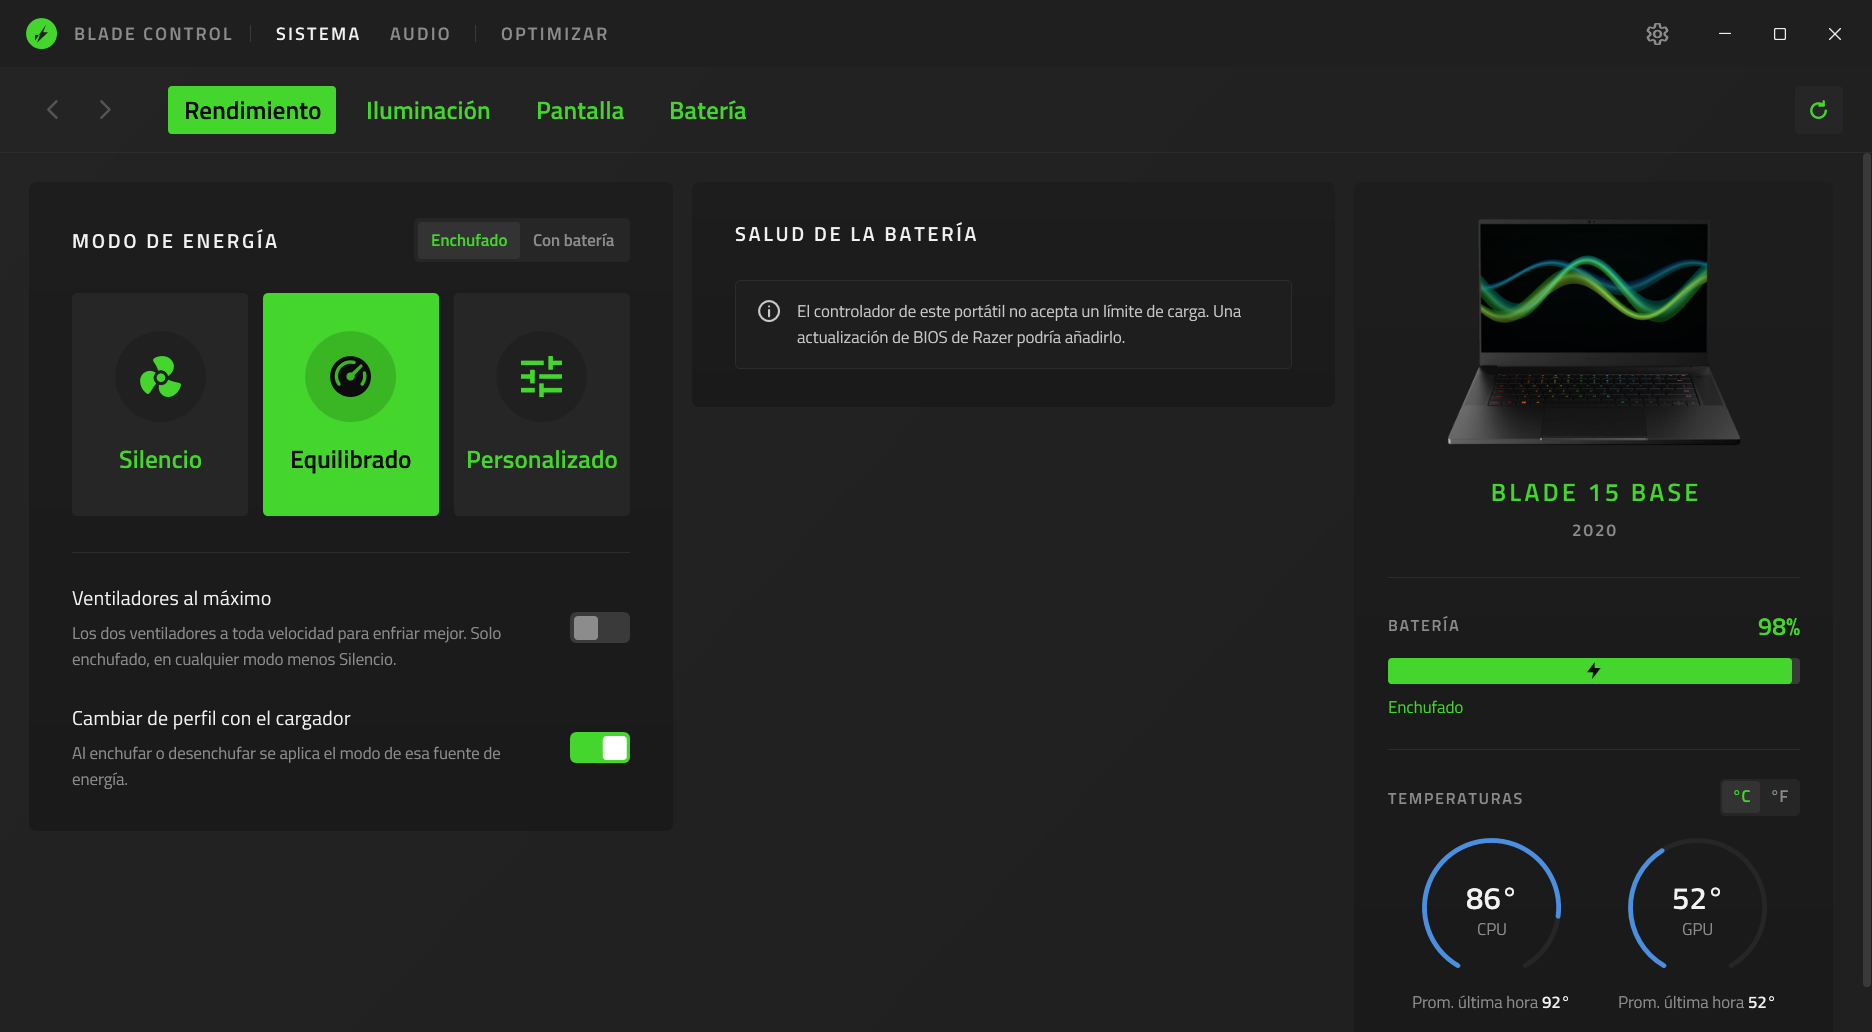
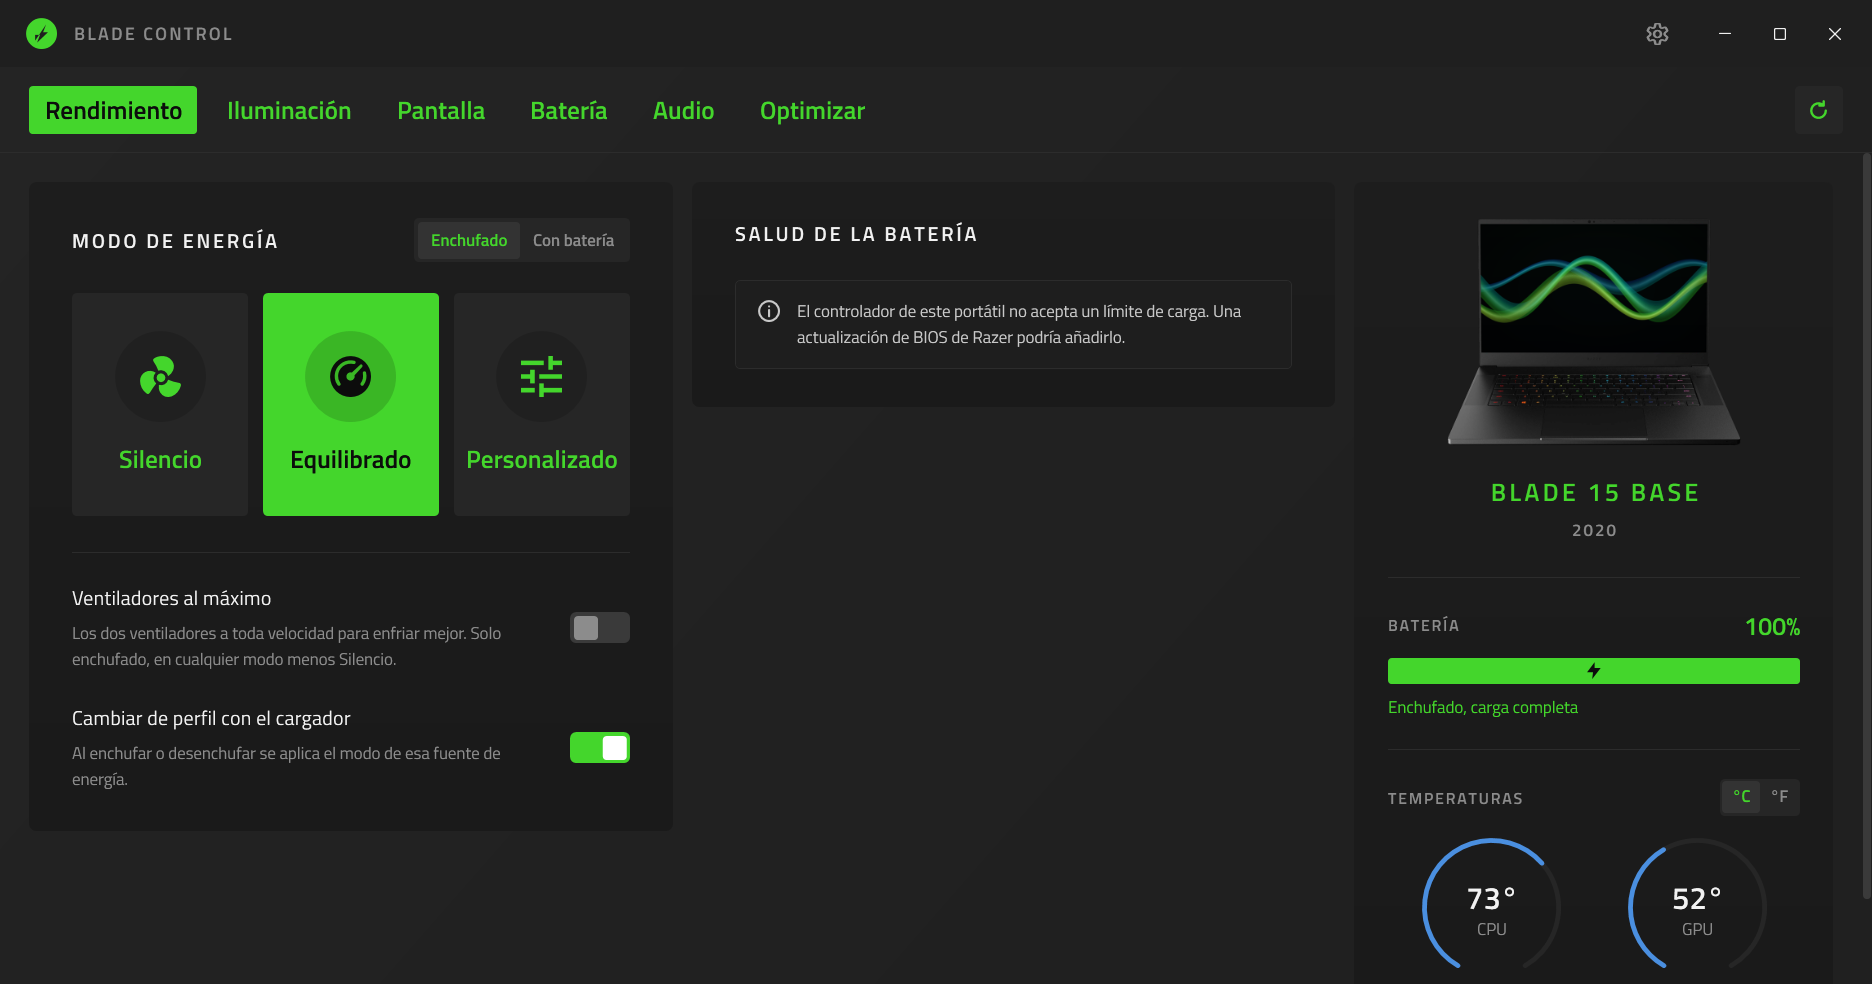
Puts every page in one row of tabs and gives the window Windows' own border
System, Audio and Optimize leave the title bar and join Performance,
Lighting, Display and Battery as tabs; the back and forward arrows go.
A one-pixel glass frame brings back Windows' shadow, thin border and
rounded corners.

diff --git a/src/BladeControl/Views/MainWindow.xaml b/src/BladeControl/Views/MainWindow.xaml
@@ -13,9 +13,12 @@
         TextOptions.TextFormattingMode="Ideal"
         UseLayoutRounding="True">
 
-    <!-- A normal Windows window (taskbar, snap, resize) with the concept's own title bar drawn in it. -->
+    <!--
+        A normal Windows window (taskbar, snap, resize) with the concept's own title bar drawn in it.
+        The one-pixel glass frame keeps Windows' own shadow, thin border and rounded corners.
+    -->
     <WindowChrome.WindowChrome>
-        <WindowChrome CaptionHeight="56" ResizeBorderThickness="6" GlassFrameThickness="0" CornerRadius="0" UseAeroCaptionButtons="False" />
+        <WindowChrome CaptionHeight="56" ResizeBorderThickness="6" GlassFrameThickness="0,0,0,1" CornerRadius="0" UseAeroCaptionButtons="False" />
     </WindowChrome.WindowChrome>
 
     <Grid x:Name="Root">
@@ -25,7 +28,7 @@
             <RowDefinition Height="*" />
         </Grid.RowDefinitions>
 
-        <!-- ===== Title bar: mark, sections, settings and the window buttons ===== -->
+        <!-- ===== Title bar: mark, settings and the window buttons ===== -->
         <Grid Grid.Row="0" Background="{StaticResource Brush.TitleBar}">
             <Grid.ColumnDefinitions>
                 <ColumnDefinition Width="Auto" />
@@ -37,11 +40,6 @@
                 <Path Width="26" Height="26" Data="{StaticResource Icon.Logo}" Fill="{StaticResource Brush.Accent}" Stretch="Uniform" />
                 <TextBlock Text="{ui:T 'Blade Control', Caps=True}" Margin="14,0,8,0" VerticalAlignment="Center"
                            FontSize="15" FontWeight="SemiBold" Foreground="{StaticResource Brush.TextMuted}" />
-                <Border Width="1" Height="14" Background="{StaticResource Brush.Track}" Margin="8,0" />
-                <RadioButton Style="{StaticResource TopNav}" Content="{ui:T 'System', Caps=True}" IsChecked="{Binding IsSystem}" />
-                <RadioButton Style="{StaticResource TopNav}" Content="{ui:T 'Audio', Caps=True}" IsChecked="{Binding IsAudio}" />
-                <Border Width="1" Height="14" Background="{StaticResource Brush.Track}" Margin="8,0" />
-                <RadioButton Style="{StaticResource TopNav}" Content="{ui:T 'Optimize', Caps=True}" IsChecked="{Binding IsOptimize}" />
             </StackPanel>
 
             <StackPanel Grid.Column="2" Orientation="Horizontal" Margin="0,0,8,0" VerticalAlignment="Center">
@@ -55,7 +53,7 @@
             </StackPanel>
         </Grid>
 
-        <!-- ===== Page row: back, forward, the section's pages, and refresh ===== -->
+        <!-- ===== Page row: every page, the last change's message, and refresh ===== -->
         <Grid Grid.Row="1" Margin="24,16,24,16">
             <Grid.ColumnDefinitions>
                 <ColumnDefinition Width="Auto" />
@@ -64,22 +62,12 @@
             </Grid.ColumnDefinitions>
 
             <StackPanel Orientation="Horizontal">
-                <Button Style="{StaticResource IconButton}" Content="{StaticResource Icon.Back}" Command="{Binding BackCommand}" ToolTip="{ui:T 'Back'}" />
-                <Button Style="{StaticResource IconButton}" Content="{StaticResource Icon.Forward}" Command="{Binding ForwardCommand}"
-                        Background="Transparent" Margin="4,0,32,0" ToolTip="{ui:T 'Forward'}" />
-
-                <StackPanel Orientation="Horizontal" Visibility="{Binding HasSubTabs, Converter={StaticResource Visible}}">
-                    <RadioButton Style="{StaticResource SubTab}" Content="{ui:T 'Performance'}" IsChecked="{Binding IsPerformance}" />
-                    <RadioButton Style="{StaticResource SubTab}" Content="{ui:T 'Lighting'}" IsChecked="{Binding IsLighting}" />
-                    <RadioButton Style="{StaticResource SubTab}" Content="{ui:T 'Display'}" IsChecked="{Binding IsDisplay}" />
-                    <RadioButton Style="{StaticResource SubTab}" Content="{ui:T 'Battery'}" IsChecked="{Binding IsBattery}" />
-                </StackPanel>
-
-                <!-- A section with a single page shows its name instead of tabs. -->
-                <Border Background="{StaticResource Brush.Accent}" CornerRadius="3" Padding="13,3,13,5"
-                        Visibility="{Binding HasSubTabs, Converter={StaticResource Hidden}}">
-                    <TextBlock Text="{Binding PageTitle}" FontSize="21" FontWeight="SemiBold" Foreground="{StaticResource Brush.OnAccent}" />
-                </Border>
+                <RadioButton Style="{StaticResource SubTab}" Content="{ui:T 'Performance'}" IsChecked="{Binding IsPerformance}" />
+                <RadioButton Style="{StaticResource SubTab}" Content="{ui:T 'Lighting'}" IsChecked="{Binding IsLighting}" />
+                <RadioButton Style="{StaticResource SubTab}" Content="{ui:T 'Display'}" IsChecked="{Binding IsDisplay}" />
+                <RadioButton Style="{StaticResource SubTab}" Content="{ui:T 'Battery'}" IsChecked="{Binding IsBattery}" />
+                <RadioButton Style="{StaticResource SubTab}" Content="{ui:T 'Audio'}" IsChecked="{Binding IsAudio}" />
+                <RadioButton Style="{StaticResource SubTab}" Content="{ui:T 'Optimize'}" IsChecked="{Binding IsOptimize}" />
             </StackPanel>
 
             <!-- What the last change did, for a few seconds. -->

diff --git a/src/BladeControl/Themes/Icons.xaml b/src/BladeControl/Themes/Icons.xaml
@@ -20,8 +20,6 @@
     <Geometry x:Key="Icon.Logo">F0 M12,0 A12,12 0 1 1 11.99,0 Z M7,17.5 L15.5,5 L13.2,11 L17,11 L8.5,19 L10.8,13 L7,13 Z</Geometry>
 
     <!-- Small line icons, on a 24 grid, drawn with a stroke. -->
-    <Geometry x:Key="Icon.Back">M15,5 L8,12 L15,19</Geometry>
-    <Geometry x:Key="Icon.Forward">M9,5 L16,12 L9,19</Geometry>
     <Geometry x:Key="Icon.Refresh">M19,12 A7,7 0 1 1 16.95,7.05 M17,3 L17,7.2 L12.8,7.2</Geometry>
     <Geometry x:Key="Icon.Bolt">F1 M13,2 L4,14 L11,14 L10,22 L20,9 L13,9 Z</Geometry>
     <Geometry x:Key="Icon.Info">M12,11 L12,17 M12,7.5 L12,7.6 M12,2.5 A9.5,9.5 0 1 1 11.99,2.5 Z</Geometry>

diff --git a/src/BladeControl/ViewModels/MainViewModel.cs b/src/BladeControl/ViewModels/MainViewModel.cs
@@ -6,16 +6,7 @@ using CommunityToolkit.Mvvm.Input;
 
 namespace BladeControl.ViewModels;
 
-/// <summary>The sections along the title bar.</summary>
-internal enum AppSection
-{
-    System,
-    Audio,
-    Optimize,
-    Settings
-}
-
-/// <summary>The pages of a section, in the row of green tabs.</summary>
+/// <summary>The pages, in the row of green tabs; Settings opens from the gear in the title bar.</summary>
 internal enum AppPage
 {
     Performance,
@@ -27,15 +18,10 @@ internal enum AppPage
     Settings
 }
 
-/// <summary>
-/// The window: which section and page are open, the back and forward history
-/// across them, and the short message under the tabs after a change.
-/// </summary>
+/// <summary>The window: which page is open, and the short message beside the tabs after a change.</summary>
 internal sealed partial class MainViewModel : ObservableObject
 {
-    private readonly List<AppPage> _history = [AppPage.Performance];
     private readonly DispatcherTimer _statusTimer = new() { Interval = TimeSpan.FromSeconds(4) };
-    private int _historyIndex;
 
     public MainViewModel(AppServices services)
     {
@@ -57,14 +43,9 @@ internal sealed partial class MainViewModel : ObservableObject
     public DevicePanelViewModel Device { get; }
 
     [ObservableProperty]
-    [NotifyPropertyChangedFor(nameof(Section), nameof(IsSystem), nameof(IsAudio), nameof(IsOptimize), nameof(IsSettings),
-        nameof(IsPerformance), nameof(IsLighting), nameof(IsDisplay), nameof(IsBattery), nameof(HasSubTabs), nameof(PageTitle))]
-    [NotifyCanExecuteChangedFor(nameof(BackCommand), nameof(ForwardCommand))]
+    [NotifyPropertyChangedFor(nameof(IsPerformance), nameof(IsLighting), nameof(IsDisplay), nameof(IsBattery),
+        nameof(IsAudio), nameof(IsOptimize), nameof(IsSettings), nameof(PageTitle))]
     private AppPage _page = AppPage.Performance;
-
-    public AppSection Section => SectionOf(Page);
-
-    public bool HasSubTabs => Section == AppSection.System;
 
     /// <summary>The open page's name, for the pages that are still to come.</summary>
     public string PageTitle => L.T(Page switch
@@ -79,49 +60,25 @@ internal sealed partial class MainViewModel : ObservableObject
     });
 
     // The radio buttons: setting one to true opens it.
-    public bool IsSystem { get => Section == AppSection.System; set { if (value && !IsSystem) Open(AppPage.Performance); } }
+    public bool IsPerformance { get => Page == AppPage.Performance; set { if (value) Page = AppPage.Performance; } }
 
-    public bool IsAudio { get => Section == AppSection.Audio; set { if (value) Open(AppPage.Audio); } }
+    public bool IsLighting { get => Page == AppPage.Lighting; set { if (value) Page = AppPage.Lighting; } }
 
-    public bool IsOptimize { get => Section == AppSection.Optimize; set { if (value) Open(AppPage.Optimize); } }
+    public bool IsDisplay { get => Page == AppPage.Display; set { if (value) Page = AppPage.Display; } }
 
-    public bool IsSettings { get => Section == AppSection.Settings; set { if (value) Open(AppPage.Settings); } }
+    public bool IsBattery { get => Page == AppPage.Battery; set { if (value) Page = AppPage.Battery; } }
 
-    public bool IsPerformance { get => Page == AppPage.Performance; set { if (value) Open(AppPage.Performance); } }
+    public bool IsAudio { get => Page == AppPage.Audio; set { if (value) Page = AppPage.Audio; } }
 
-    public bool IsLighting { get => Page == AppPage.Lighting; set { if (value) Open(AppPage.Lighting); } }
+    public bool IsOptimize { get => Page == AppPage.Optimize; set { if (value) Page = AppPage.Optimize; } }
 
-    public bool IsDisplay { get => Page == AppPage.Display; set { if (value) Open(AppPage.Display); } }
-
-    public bool IsBattery { get => Page == AppPage.Battery; set { if (value) Open(AppPage.Battery); } }
+    public bool IsSettings { get => Page == AppPage.Settings; set { if (value) Page = AppPage.Settings; } }
 
     [ObservableProperty]
     private string _status = string.Empty;
 
     [ObservableProperty]
     private bool _statusIsError;
-
-    public void Open(AppPage page)
-    {
-        if (page == Page)
-            return;
-
-        // A new page drops whatever was ahead of this one, as in a browser.
-        _history.RemoveRange(_historyIndex + 1, _history.Count - _historyIndex - 1);
-        _history.Add(page);
-        _historyIndex = _history.Count - 1;
-        Page = page;
-    }
-
-    private bool CanGoBack() => _historyIndex > 0;
-
-    private bool CanGoForward() => _historyIndex < _history.Count - 1;
-
-    [RelayCommand(CanExecute = nameof(CanGoBack))]
-    private void Back() => Page = _history[--_historyIndex];
-
-    [RelayCommand(CanExecute = nameof(CanGoForward))]
-    private void Forward() => Page = _history[++_historyIndex];
 
     /// <summary>Reads the laptop again: Fn keys or another program may have changed its mode.</summary>
     [RelayCommand]
@@ -134,12 +91,4 @@ internal sealed partial class MainViewModel : ObservableObject
         _statusTimer.Stop();
         _statusTimer.Start();
     }
-
-    private static AppSection SectionOf(AppPage page) => page switch
-    {
-        AppPage.Audio => AppSection.Audio,
-        AppPage.Optimize => AppSection.Optimize,
-        AppPage.Settings => AppSection.Settings,
-        _ => AppSection.System
-    };
 }

diff --git a/src/BladeControl/App.xaml.cs b/src/BladeControl/App.xaml.cs
@@ -25,7 +25,8 @@ public partial class App : Application
         // overwrite each other's settings file.
         _singleInstance = new Mutex(initiallyOwned: true, SingleInstanceMutexName, out var isFirstInstance);
 
-        if (!isFirstInstance)
+        // A screenshot run only looks, so it may run beside the open app.
+        if (!isFirstInstance && e.Args is not ["--screenshot", ..])
         {
             AppLog.Info("Another Blade Control is already running for this user; exiting.");
             Shutdown();
@@ -58,7 +59,7 @@ public partial class App : Application
         if (e.Args is ["--screenshot", var path, ..])
         {
             if (e.Args.Length > 2 && Enum.TryParse<AppPage>(e.Args[2], ignoreCase: true, out var page))
-                _viewModel.Open(page);
+                _viewModel.Page = page;
 
             ScreenshotThenClose(window, path);
         }

diff --git a/src/BladeControl.Core/Localization/L.cs b/src/BladeControl.Core/Localization/L.cs
@@ -414,8 +414,6 @@ internal static class L
         ["Minimize"] = "Minimizar",
         ["Maximize"] = "Maximizar",
         ["Restore"] = "Restaurar",
-        ["Back"] = "Atrás",
-        ["Forward"] = "Adelante",
         ["Read the laptop again"] = "Volver a leer el portátil",
         ["This page is coming soon."] = "Esta página llegará pronto.",
 
